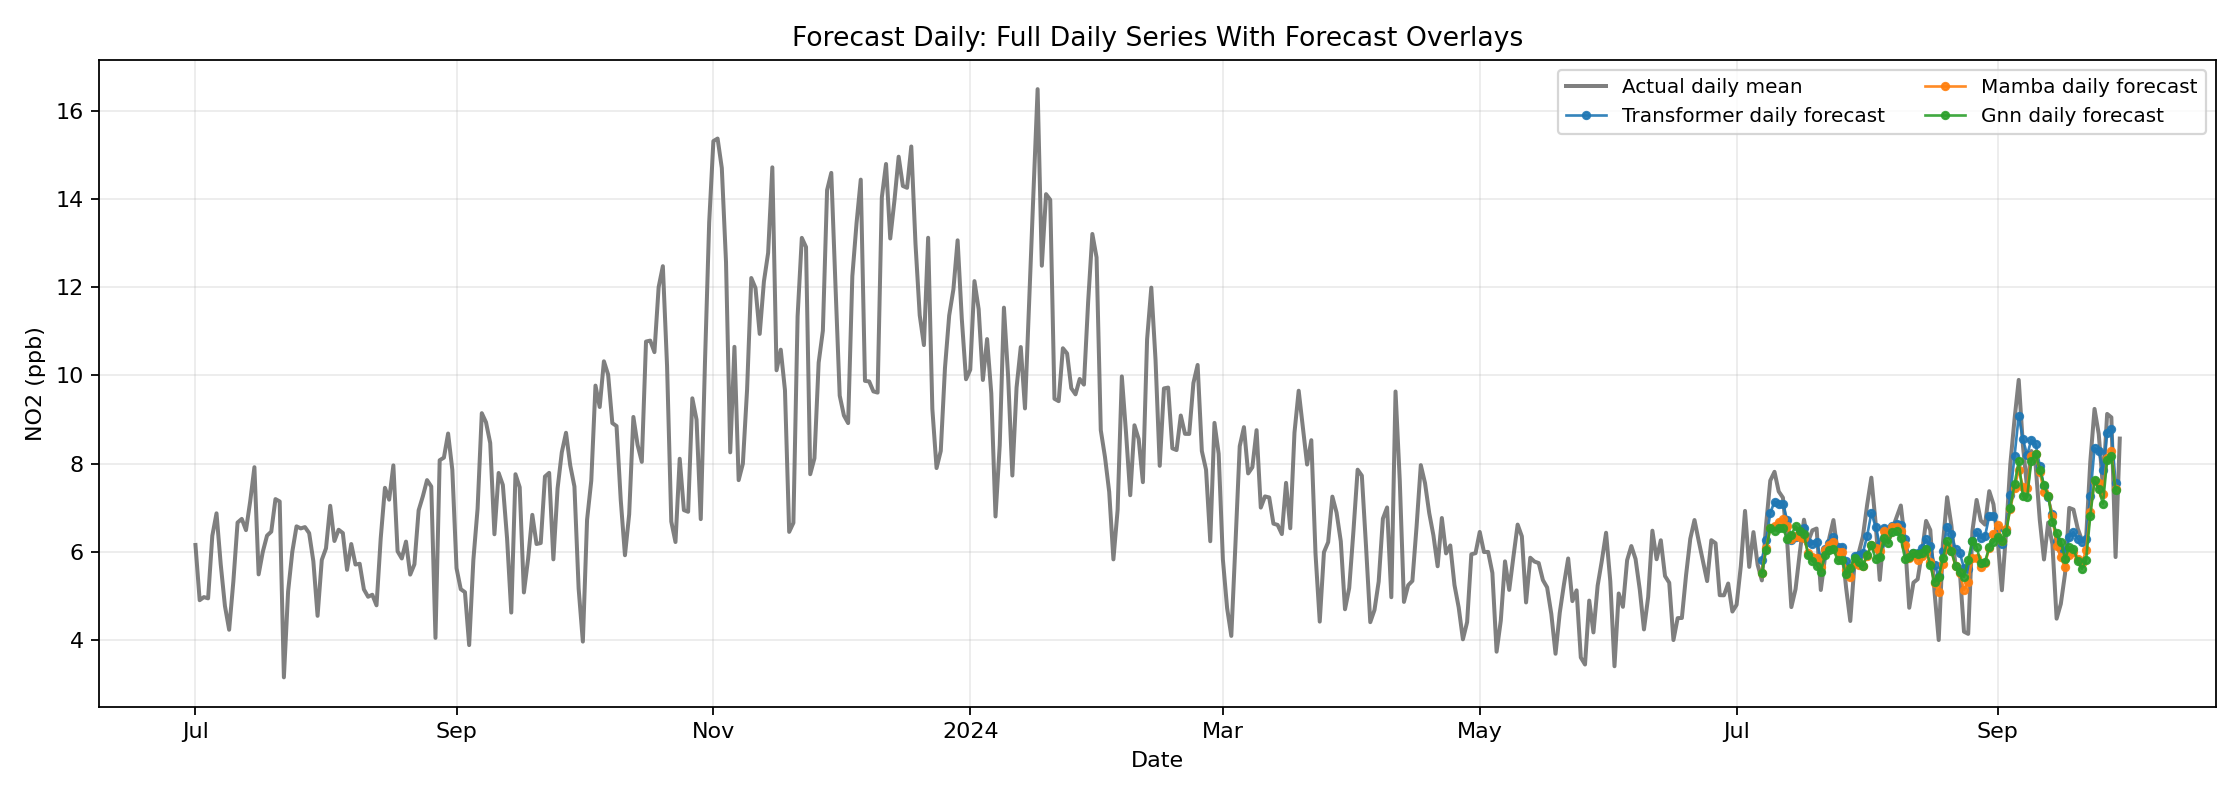
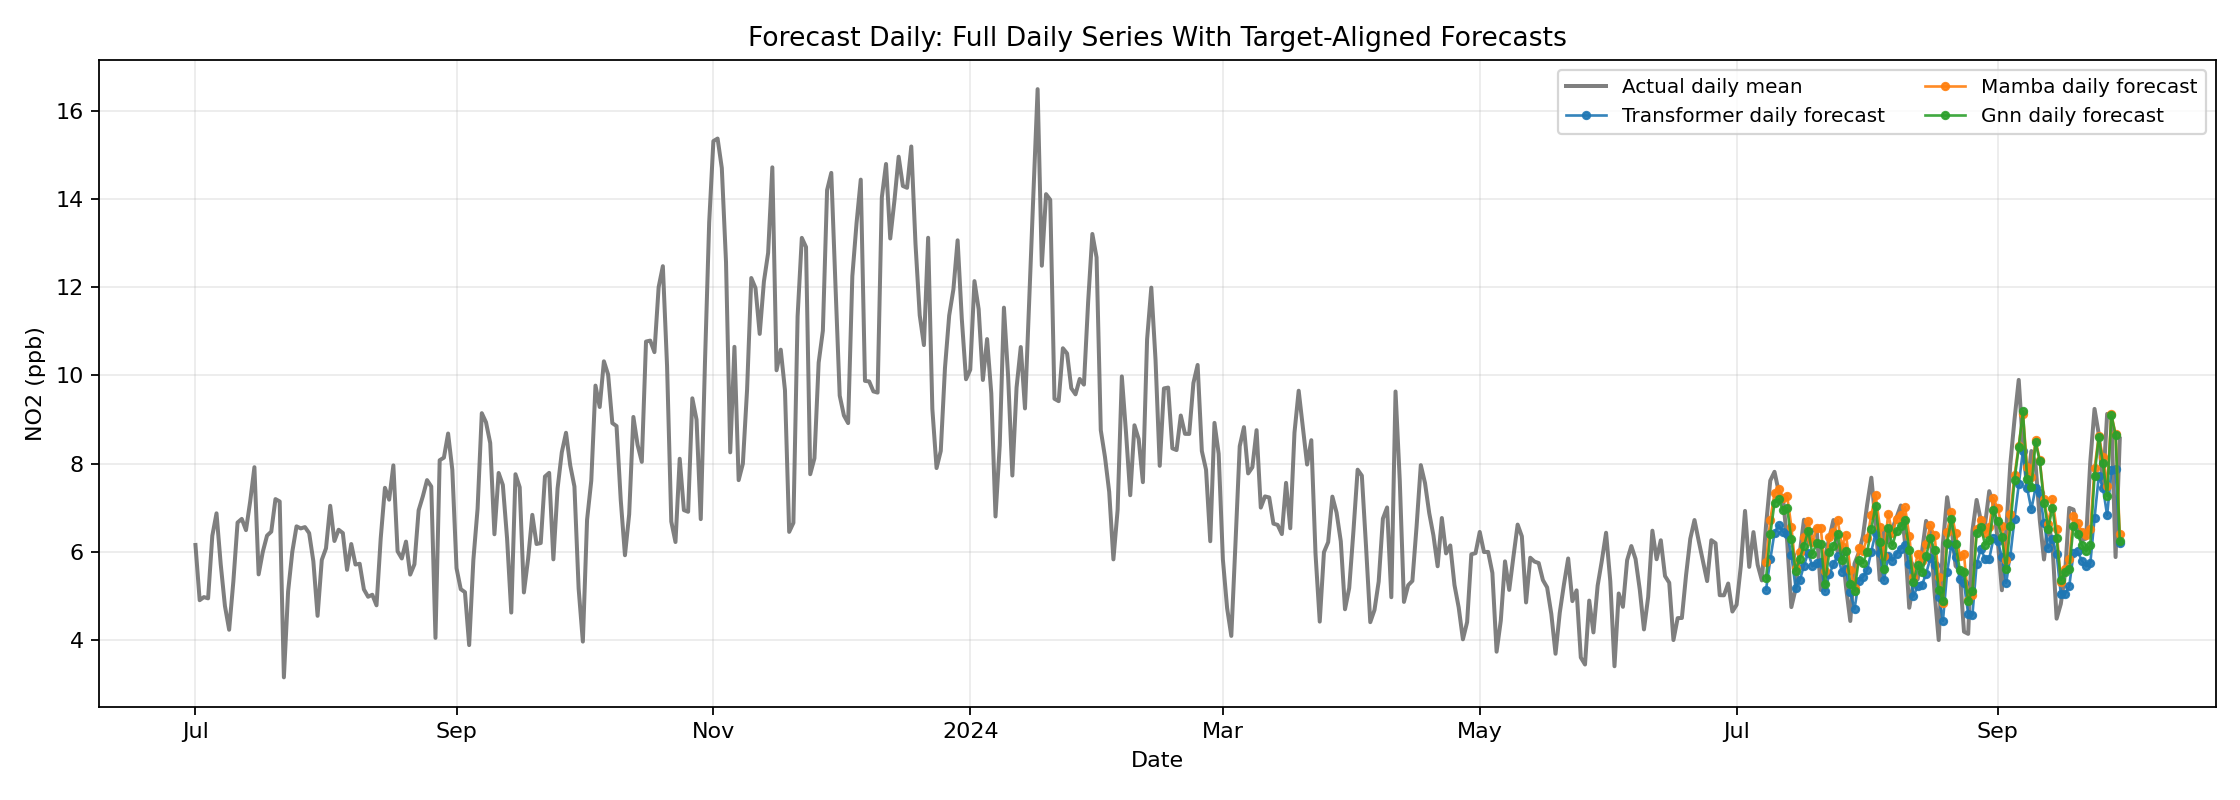
Restore original forecast_daily graphs and remove zoom plot

Changed region(s): [[0.7812, 0.5, 0.9688, 0.7812], [0.3438, 0.0312, 0.7188, 0.0625]]

diff --git a/forecast_daily/generate_results.py b/forecast_daily/generate_results.py
@@ -12,7 +12,6 @@ import numpy as np
 import pandas as pd
 import torch
 import torch.nn as nn
-import torch.nn.functional as F
 
 # Allow imports from project root and local model folders.
 ROOT = Path(__file__).resolve().parents[1]
@@ -93,7 +92,6 @@ def train_one_model(
     epochs: int,
     lr: float,
     device: str,
-    delta_loss_weight: float,
 ) -> tuple[nn.Module, dict, pd.DataFrame]:
     opt = torch.optim.Adam(model.parameters(), lr=lr)
     loss_fn = nn.MSELoss()
@@ -104,34 +102,20 @@ def train_one_model(
 
     model = model.to(device)
 
-    def temporal_delta_loss(pred: torch.Tensor, target: torch.Tensor) -> torch.Tensor:
-        # Penalize day-to-day slope mismatch to reduce 1-day-late reactions.
-        if pred.shape[0] < 2:
-            return torch.zeros((), device=pred.device)
-        pred_delta = pred[1:] - pred[:-1]
-        target_delta = target[1:] - target[:-1]
-        return F.l1_loss(pred_delta, target_delta)
-
     for epoch in range(1, epochs + 1):
         model.train()
         running = 0.0
-        running_delta = 0.0
         n = 0
         for xb, yb in train_loader:
             xb, yb = xb.to(device), yb.to(device)
             opt.zero_grad()
-            pred = model(xb)
-            point_loss = loss_fn(pred, yb)
-            delta_loss = temporal_delta_loss(pred, yb)
-            loss = point_loss + delta_loss_weight * delta_loss
+            loss = loss_fn(model(xb), yb)
             loss.backward()
             opt.step()
-            running += float(point_loss.item()) * len(xb)
-            running_delta += float(delta_loss.item()) * len(xb)
+            running += float(loss.item()) * len(xb)
             n += len(xb)
 
         train_mse = running / max(1, n)
-        train_delta_l1 = running_delta / max(1, n)
         test_mse, test_mae = evaluate_scaled(model, test_loader, device)
         history_train_mse.append(train_mse)
         history_test_mse.append(test_mse)
@@ -140,8 +124,7 @@ def train_one_model(
         if epoch == 1 or epoch % 10 == 0 or epoch == epochs:
             print(
                 f"[{name}] epoch {epoch:3d}/{epochs} "
-                f"train_mse={train_mse:.4f} train_delta_l1={train_delta_l1:.4f} "
-                f"test_mse={test_mse:.4f} test_mae={test_mae:.4f}"
+                f"train_mse={train_mse:.4f} test_mse={test_mse:.4f} test_mae={test_mae:.4f}"
             )
 
     pred_scaled, true_scaled = predict_scaled(model, test_loader, device)
@@ -177,7 +160,6 @@ def save_plots(
     merged_preds: dict[str, pd.DataFrame],
     metrics_df: pd.DataFrame,
     actual_daily_df: pd.DataFrame,
-    plot_shift_days: int = -1,
 ) -> None:
     plots_dir = results_dir / "plots"
     plots_dir.mkdir(parents=True, exist_ok=True)
@@ -219,14 +201,12 @@ def save_plots(
             )
         aligned_preds[name] = aligned
 
-    # 1) Full daily timeline with forecast overlays.
-    # `plot_shift_days` is visual-only; metrics remain computed on true target dates.
+    # 1) Full daily timeline with aligned forecast overlays.
     plt.figure(figsize=(13, 5))
     plt.plot(actual_daily["date"], actual_daily["airnow_no2"], label="Actual", linewidth=2.0, color="black", alpha=0.85)
     for name, aligned in aligned_preds.items():
-        plot_dates = aligned["date"] + pd.to_timedelta(plot_shift_days, unit="D")
-        plt.plot(plot_dates, aligned["pred_ppb"], label=f"{name.title()} Pred", linewidth=1.6, alpha=0.9, color=color_map.get(name))
-    plt.title("Forecast Daily: Full Timeline (Actual Daily vs Forecast Overlays)")
+        plt.plot(aligned["date"], aligned["pred_ppb"], label=f"{name.title()} Pred", linewidth=1.6, alpha=0.9, color=color_map.get(name))
+    plt.title("Forecast Daily: Full Timeline (Actual Daily vs Date-Aligned Forecasts)")
     plt.xlabel("Date")
     plt.ylabel("NO2 (ppb)")
     plt.grid(alpha=0.25)
@@ -235,7 +215,7 @@ def save_plots(
     plt.savefig(plots_dir / "timeseries_all_models.png", dpi=160)
     plt.close()
 
-    # 1b) Daily line + prediction markers with optional visual shift.
+    # 1b) Daily line + prediction markers on exact valid target dates (NaN elsewhere).
     fig, ax = plt.subplots(figsize=(14, 5))
     ax.plot(
         actual_daily["date"],
@@ -247,9 +227,8 @@ def save_plots(
     )
 
     for name, aligned in aligned_preds.items():
-        plot_dates = aligned["date"] + pd.to_timedelta(plot_shift_days, unit="D")
         ax.plot(
-            plot_dates,
+            aligned["date"],
             aligned["pred_ppb"],
             label=f"{name.title()} daily forecast",
             linewidth=1.2,
@@ -259,7 +238,7 @@ def save_plots(
             color=color_map.get(name),
         )
 
-    ax.set_title("Forecast Daily: Full Daily Series With Forecast Overlays")
+    ax.set_title("Forecast Daily: Full Daily Series With Target-Aligned Forecasts")
     ax.set_xlabel("Date")
     ax.set_ylabel("NO2 (ppb)")
     ax.grid(alpha=0.25)
@@ -269,53 +248,6 @@ def save_plots(
     plt.tight_layout()
     plt.savefig(plots_dir / "daily_timeseries_with_target_aligned_forecasts.png", dpi=160)
     plt.close(fig)
-
-    # 1c) Zoomed 3-month (test target) view with optional visual shift.
-    target_date_values: list[pd.Timestamp] = []
-    for aligned in aligned_preds.values():
-        valid_dates = aligned.loc[aligned["pred_ppb"].notna(), "date"]
-        if not valid_dates.empty:
-            target_date_values.extend(pd.to_datetime(valid_dates).tolist())
-
-    if target_date_values:
-        zoom_start = pd.Timestamp(min(target_date_values))
-        zoom_end = pd.Timestamp(max(target_date_values))
-        zoom_actual = actual_daily[(actual_daily["date"] >= zoom_start) & (actual_daily["date"] <= zoom_end)]
-
-        fig, ax = plt.subplots(figsize=(14, 5))
-        ax.plot(
-            zoom_actual["date"],
-            zoom_actual["airnow_no2"],
-            label="Actual daily mean",
-            color="black",
-            linewidth=2.0,
-            alpha=0.9,
-        )
-
-        for name, aligned in aligned_preds.items():
-            zoom_pred = aligned[(aligned["date"] >= zoom_start) & (aligned["date"] <= zoom_end)]
-            plot_dates = zoom_pred["date"] + pd.to_timedelta(plot_shift_days, unit="D")
-            ax.plot(
-                plot_dates,
-                zoom_pred["pred_ppb"],
-                label=f"{name.title()} daily forecast",
-                linewidth=1.3,
-                marker="o",
-                markersize=3.0,
-                alpha=0.9,
-                color=color_map.get(name),
-            )
-
-        ax.set_title("Forecast Daily: 3-Month Test Window (Forecast Overlays)")
-        ax.set_xlabel("Date")
-        ax.set_ylabel("NO2 (ppb)")
-        ax.grid(alpha=0.25)
-        ax.legend(ncol=2, fontsize=9)
-        ax.xaxis.set_major_locator(mdates.AutoDateLocator(minticks=6, maxticks=12))
-        ax.xaxis.set_major_formatter(mdates.ConciseDateFormatter(ax.xaxis.get_major_locator()))
-        plt.tight_layout()
-        plt.savefig(plots_dir / "timeseries_test_3_months.png", dpi=160)
-        plt.close(fig)
 
     # 2) Per-model scatter plot
     fig, axes = plt.subplots(1, 3, figsize=(15, 4.2), sharex=True, sharey=True)
@@ -356,24 +288,12 @@ def main() -> None:
     p.add_argument("--batch-size", type=int, default=32)
     p.add_argument("--lr", type=float, default=1e-3)
     p.add_argument(
-        "--delta-loss-weight",
-        type=float,
-        default=0.35,
-        help="Weight for day-to-day slope matching loss to reduce lagged reactions.",
-    )
-    p.add_argument(
         "--train-end",
         type=str,
         default="auto",
         help="Last date included in training. Use 'auto' for first full-year chronological split.",
     )
     p.add_argument("--seed", type=int, default=42)
-    p.add_argument(
-        "--plot-shift-days",
-        type=int,
-        default=-1,
-        help="Shift prediction dates in plots only (e.g., -1 for one-day left shift).",
-    )
     p.add_argument(
         "--results-dir",
         type=str,
@@ -446,7 +366,6 @@ def main() -> None:
             epochs=args.epochs,
             lr=args.lr,
             device=device,
-            delta_loss_weight=args.delta_loss_weight,
         )
 
         ckpt_dir = results_dir / "checkpoints"
@@ -482,7 +401,7 @@ def main() -> None:
     metrics_df.to_csv(metrics_csv, index=False)
     metrics_df.to_json(metrics_json, orient="records", indent=2)
 
-    save_plots(results_dir, merged_preds, metrics_df, daily_df, plot_shift_days=args.plot_shift_days)
+    save_plots(results_dir, merged_preds, metrics_df, daily_df)
 
     print("\nDone. Artifacts saved to:", results_dir)
     print("- Daily CSV")

diff --git a/forecast_daily/results/README.md b/forecast_daily/results/README.md
@@ -14,18 +14,6 @@ All results in this folder were produced by running:
 python forecast_daily/generate_results.py --epochs 50 --batch-size 32 --lr 1e-3 --train-end auto
 ```
 
-Optional anti-lag setting:
-
-```bash
-python forecast_daily/generate_results.py --epochs 50 --delta-loss-weight 0.35
-```
-
-Optional visual date shift (left-shift prediction curves in plots only):
-
-```bash
-python forecast_daily/generate_results.py --epochs 50 --plot-shift-days -1
-```
-
 Methodology pipeline:
 1. Build one canonical daily NO2 mean series (site-mean values per day).
 2. Keep one scalar NO2 value per day as the only model input channel.
@@ -40,27 +28,20 @@ Methodology pipeline:
 6. Train all models on identical train/test windows and evaluate on the same target dates.
 7. Save predictions, metrics, checkpoints, and plots.
 
-Anti-lag note:
-- Training uses a small day-to-day slope matching term (`--delta-loss-weight`) so predictions react faster to rises/drops instead of trailing by one day.
-
-Plot-shift note:
-- `--plot-shift-days` changes plotted prediction dates only (default `-1` for one-day left shift).
-- Reported metrics remain computed on true t+1 target dates from `predictions_*.csv`.
-
 ## Model results (this run)
 
 From metrics.csv:
 
 | Model | Epochs | Test MAE (ppb) | Test RMSE (ppb) |
 |---|---:|---:|---:|
-| Transformer | 50 | 0.800 | 1.018 |
-| GNN | 50 | 0.863 | 1.061 |
-| Mamba | 50 | 0.883 | 1.077 |
+| GNN | 50 | 0.745 | 0.930 |
+| Mamba | 50 | 0.720 | 0.934 |
+| Transformer | 50 | 0.919 | 1.118 |
 
 Quick takeaways:
-- Transformer has the best MAE and RMSE in this anti-lag run.
-- GNN is close behind Transformer on RMSE.
-- Mamba is competitive but trails the other two here.
+- GNN has the best RMSE (slightly fewer large misses).
+- Mamba has the best MAE (best typical absolute error).
+- Transformer is weaker than the other two in this specific run.
 
 ## Graphs and how to interpret them
 
@@ -70,7 +51,7 @@ Quick takeaways:
 
 What this plot is:
 - Black line: actual daily NO2 across the full daily train+test timeline.
-- Colored lines: each model prediction overlaid with optional visual date shift.
+- Colored lines: each model prediction on target dates only (NaN on non-target dates).
 
 How to interpret:
 - Better models follow the black line shape, peaks, and dips.
@@ -86,25 +67,13 @@ What to look for in this run:
 
 What this plot is:
 - Gray line: actual daily mean NO2 across the full daily train+test timeline.
-- Colored markers/lines: each model's daily forecast values with optional visual date shift.
+- Colored markers/lines: each model's daily forecast values on target dates only.
 
 How to interpret:
-- Forecast points may be intentionally shifted left/right for visualization when `--plot-shift-days` is used.
+- Forecast points must align to the target date, not the last input date.
 - No forecast values should appear before the test target window.
 - Any visible right-shift or left-shift against daily dates indicates an alignment bug.
 - Gaps before the first test target date are expected and confirm correct alignment.
-
-### 1c) Zoomed 3-month test window
-
-![3-Month Time Series](plots/timeseries_test_3_months.png)
-
-What this plot is:
-- Black line: actual daily mean NO2 over the test-target 3-month window.
-- Colored lines/markers: model forecasts only on valid t+1 target dates.
-
-How to interpret:
-- Use this view to inspect short-term alignment, peak capture, and day-to-day error.
-- Forecast curves should stay date-aligned with the daily target timeline.
 
 ### 2) Scatter (actual vs predicted)
 
@@ -137,9 +106,9 @@ How to interpret:
 - If RMSE is much larger than MAE, large outliers are likely present.
 
 What to look for in this run:
-- Transformer leads on both MAE and RMSE.
-- GNN is second-best on RMSE.
-- Mamba is third on both error metrics in this run.
+- Mamba leads on MAE.
+- GNN leads on RMSE.
+- Transformer trails both error metrics.
 
 ## Key output files
 
@@ -150,7 +119,6 @@ What to look for in this run:
 - checkpoints/*.pt: trained model weights.
 - plots/timeseries_all_models.png: full-timeline daily actual line with date-aligned prediction overlays.
 - plots/daily_timeseries_with_target_aligned_forecasts.png: daily-line diagnostic with target-date forecast markers.
-- plots/timeseries_test_3_months.png: zoomed 3-month test-window daily timeline with target-date-aligned forecasts.
 - plots/scatter_all_models.png and plots/metrics_bar.png: accuracy diagnostics.
 
 ## Re-running experiments
